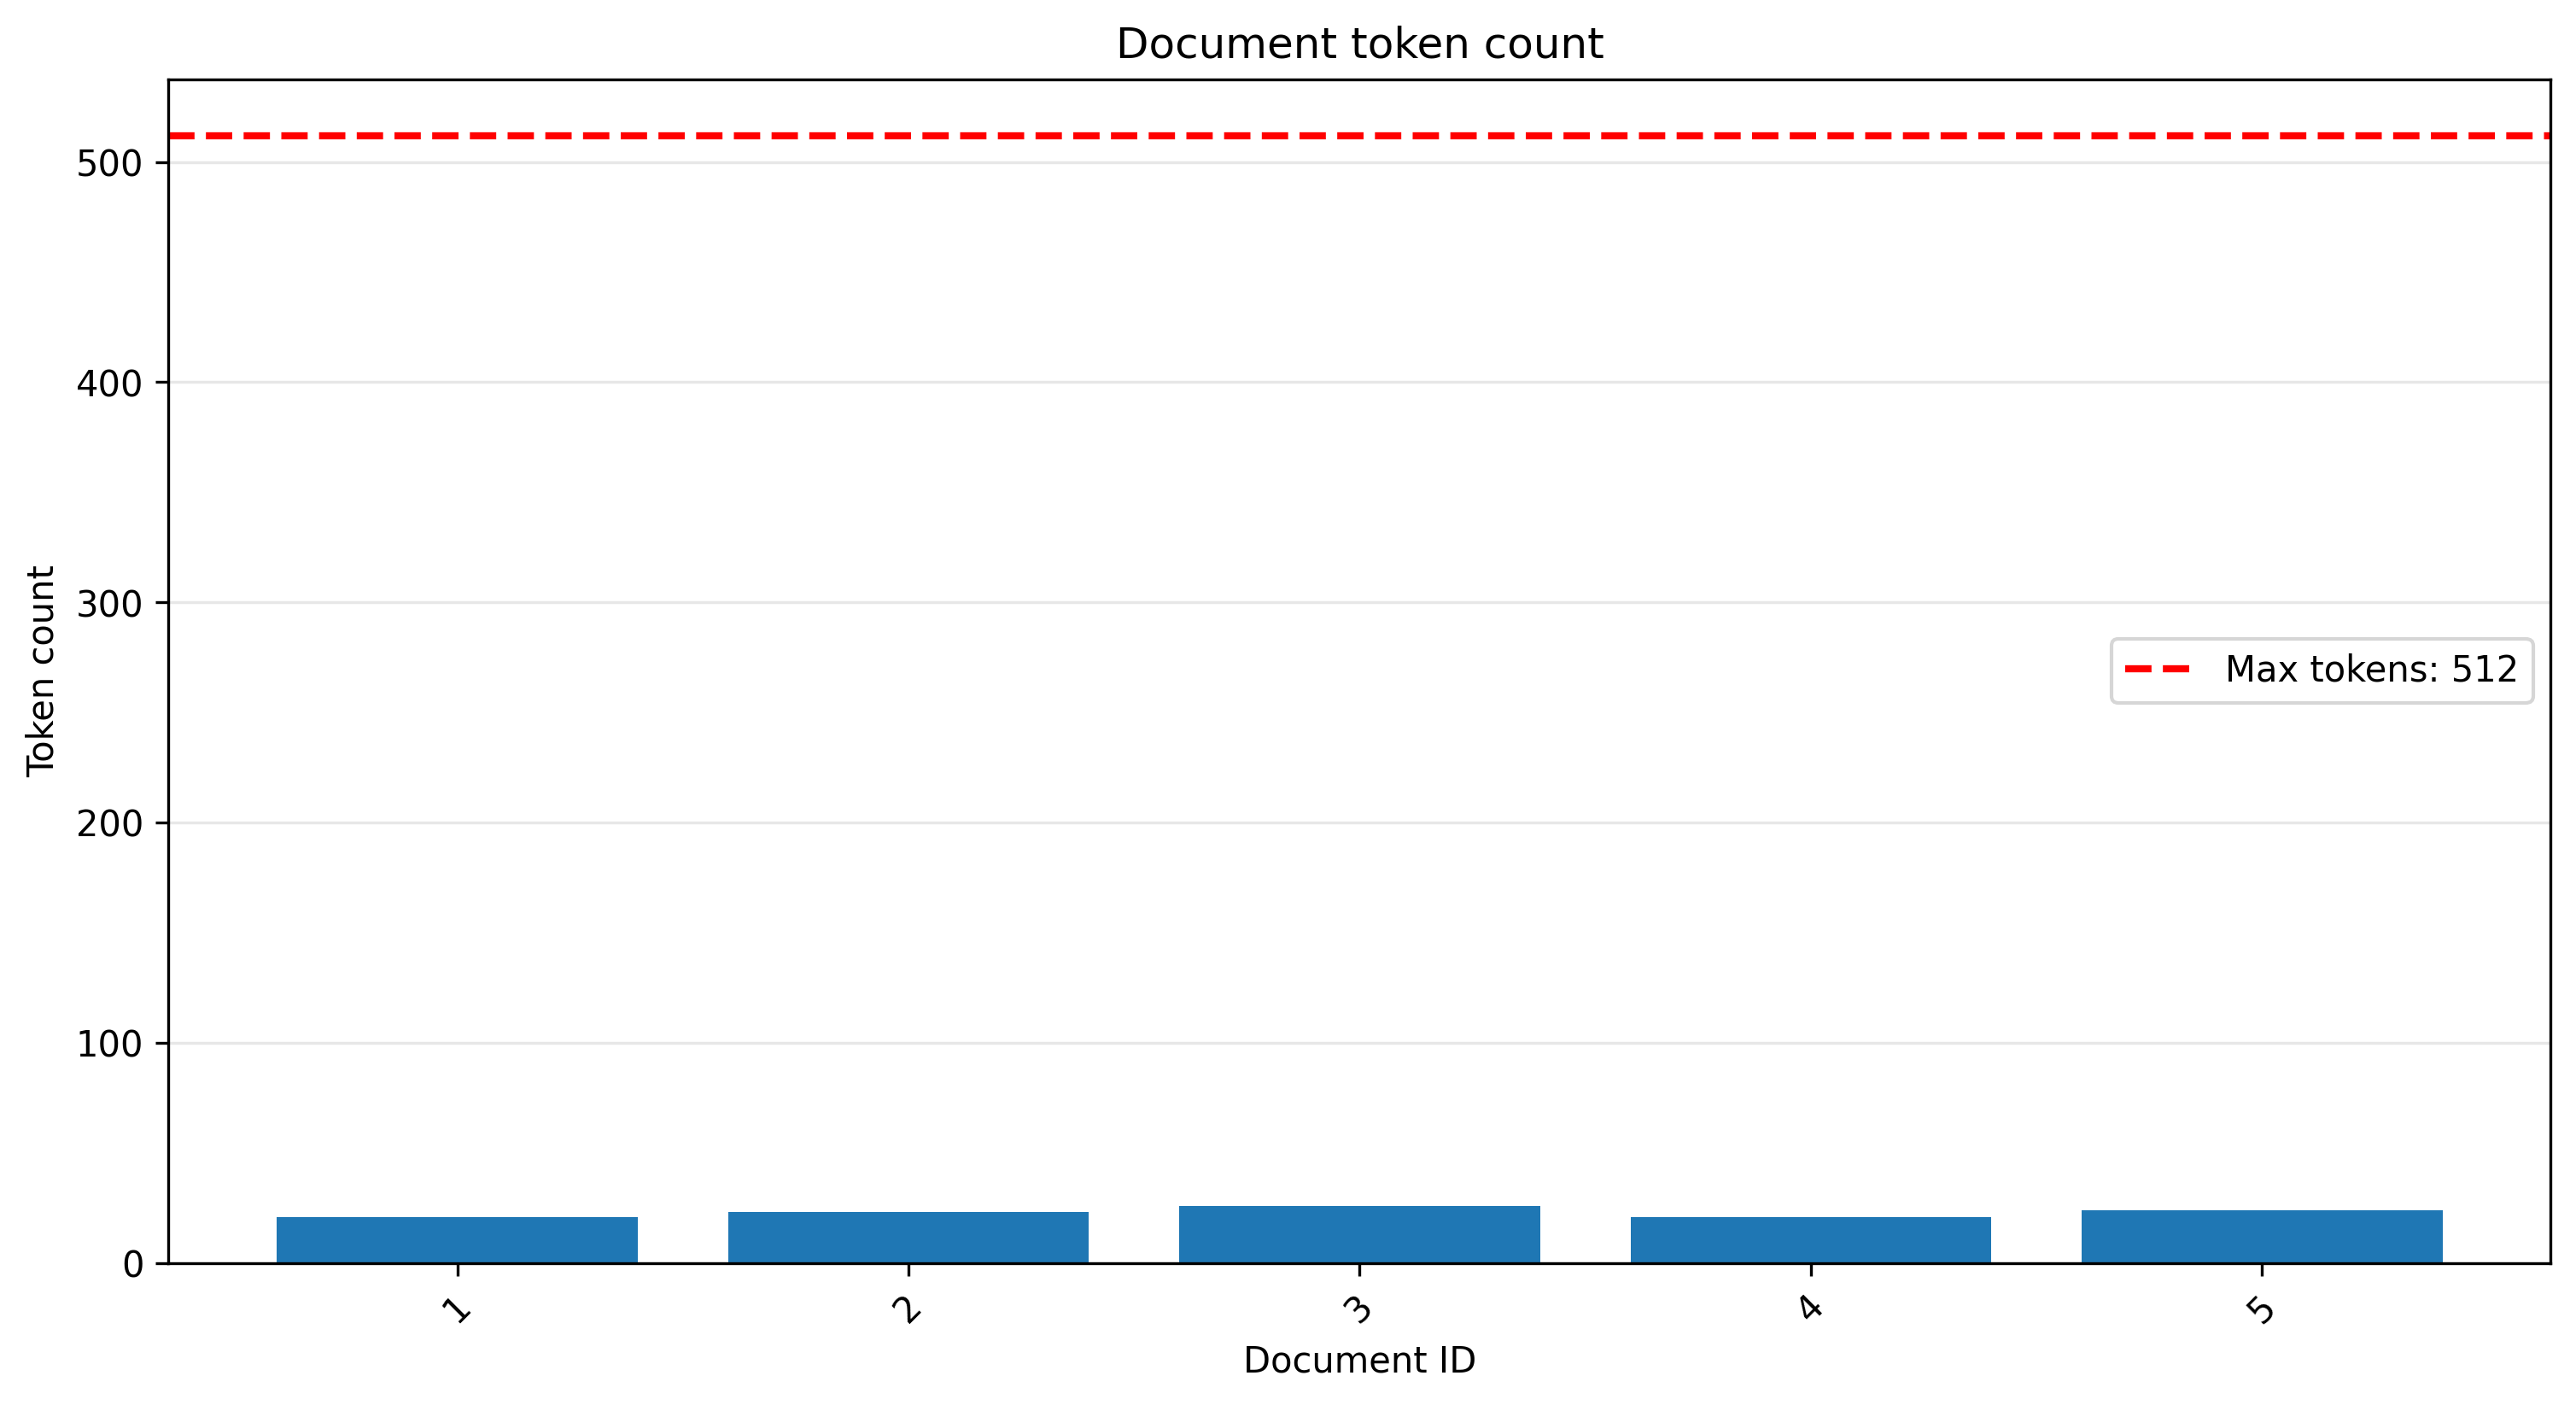
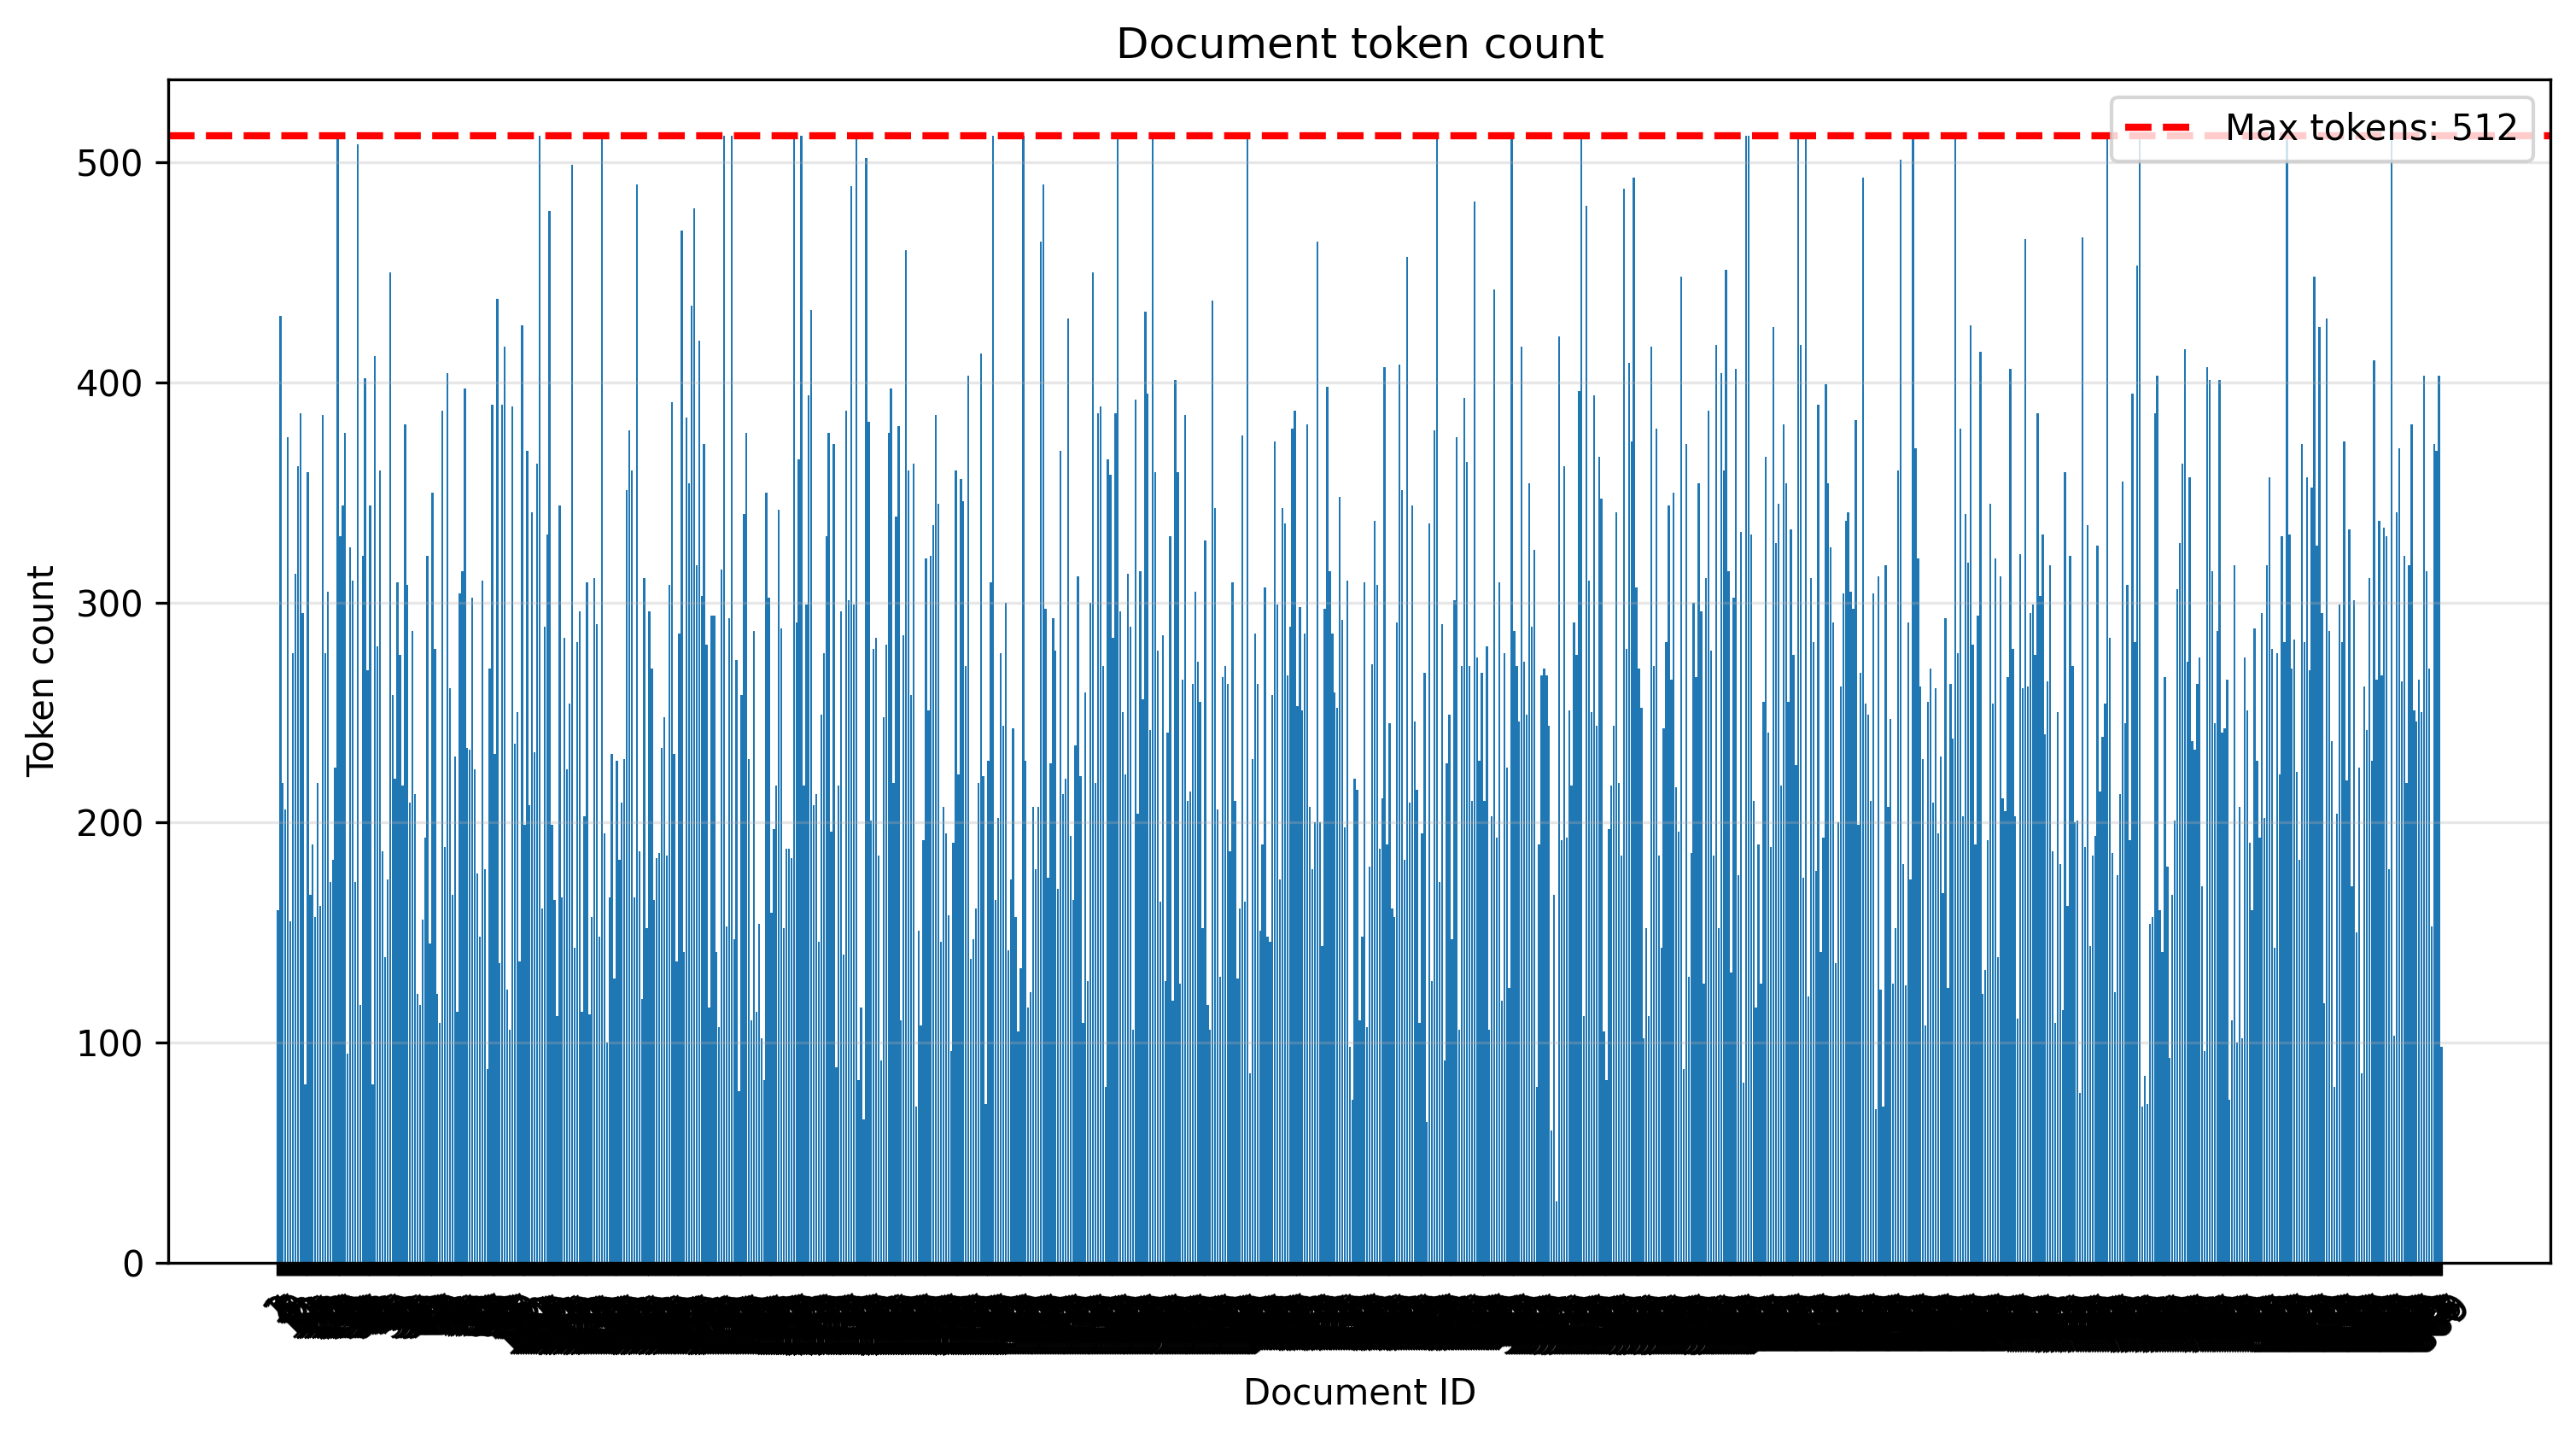
Beta 0.3.1 - data sync input prompts

diff --git a/solvedesk_cmd/commands/sync.py b/solvedesk_cmd/commands/sync.py
@@ -64,29 +64,21 @@ def get_preprocessing_config(type: str) -> tuple[list[str], list[str]]:
     "api",
     help="Download data from external API and save to selected vector database collection"
 )
-def sync_api(
-    api_url: str = typer.Argument(
-        ...,
-        help="External API URL"
-    ),
-    collection_name: str = typer.Option(
-        ...,
-        "--collection-name",
-        "-c",
-        help="Choose existing collection in your database"
-    ),
-    token: str = typer.Option(
-        None,
-        "--token",
-        "-t",
-        help="Bearer token for external API"
-    ),
-    data_type: str = typer.Option(
-        "know-base",
-        "--type",
-        help="Data type: know-base, faq or helpdesk"
+def sync_api():
+    api_url: str = typer.prompt(
+        "[INPUT] Input external API URL"
     )
-):
+    collection_name: str = typer.prompt(
+        "[INPUT] Type collection name from your vector database"
+    )
+    token: str = typer.prompt(
+        "[INPUT] Input token for API"
+    )
+    data_type: str = typer.prompt(
+        "[INPUT] Specify data type",
+        default="know-base"
+    )
+    
     try:
         typer.echo("\n[STATUS] Starting API synchronization...\n")
 
@@ -115,18 +107,18 @@ def sync_api(
     "file",
     help="Load data from local file and save to selected vector database collection"
 )
-def import_data(
-    file_path: str,
-    collection_name : str = typer.Argument(
-        help="Choose existing collection in your database"
+def import_data():
+    file_path: str = typer.prompt(
+        "[INPUT] Input file path:"
     ),
-    type: str = typer.Option(
-        "know-base",
-        "--type",
-        "-t",
-        help="Data type: know_base, faq or helpdesk"
+    collection_name : str = typer.prompt(
+        "[INPUT] Type collection name from your vector database:"
+    ),
+    type: str = typer.prompt(
+        "[INPUT] Specify data type:",
+        default="know-base"
     )
-):
+    
     try:
         path = Path(file_path)
         if not path.exists():

diff --git a/readme.md b/readme.md
@@ -77,12 +77,6 @@ venv\Scripts\activate
 (venv) pip install solvedesk-ai
 ```
 
-Configure local LLM:
-
-```bash
-solvedesk llm init
-```
-
 ---
 
 ## CLI Commands
@@ -305,7 +299,11 @@ CLEAN FILE PREVIEW
 ```
 
 ```bash
-(venv) C:\path\to\project> solvedesk sync api http://127.0.0.1:8000/data --collection-name apicol --token secret-token --type helpdesk
+(venv) C:\path\to\project> solvedesk sync api
+[INPUT] Input external API URL: http://127.0.0.1:8000/data
+[INPUT] Type collection name from your vector database: testapi2
+[INPUT] Input token for API: secret-token
+[INPUT] Specify data type [know-base]: helpdesk
 
 [STATUS] Starting API synchronization...
 
@@ -345,13 +343,13 @@ Clusters: reports\clusters_visualization.png
 Token limit: reports\token_limit_chart.png
 Cosine similarity: reports\cosine_similarity_progress.png
 ```
-
 Generate reports containing:
 
 * cosine similarity statistics
 * cluster distribution
 * token statistics
 * PCA visualization
+
 
 ### Chunking
 